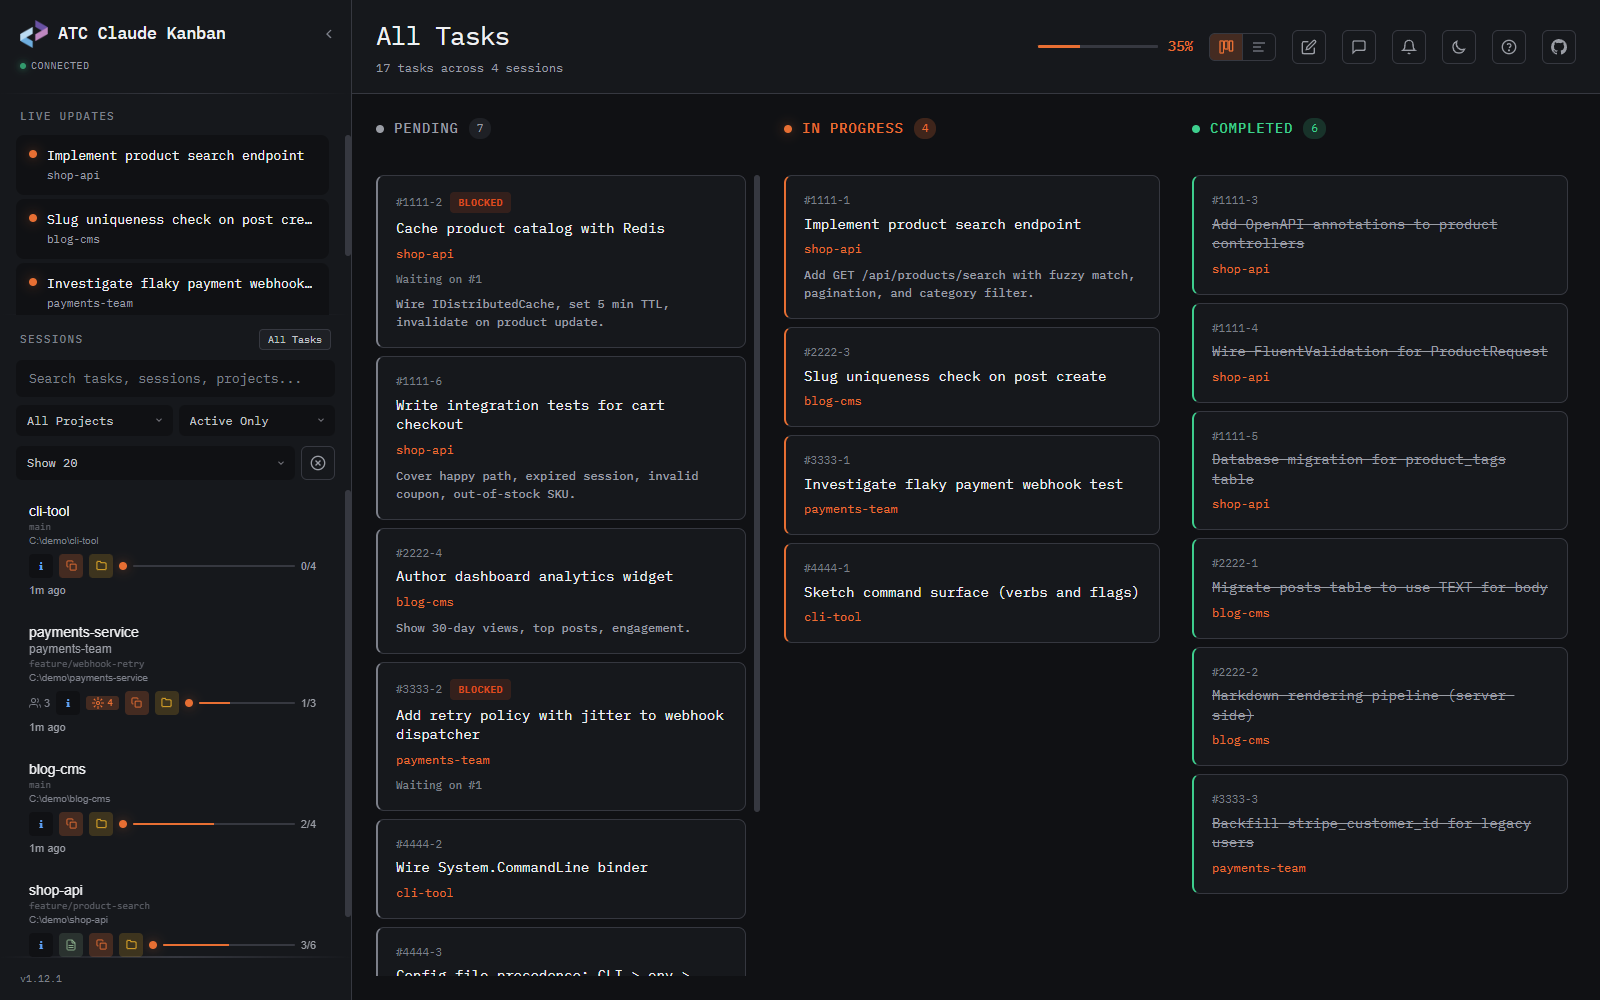
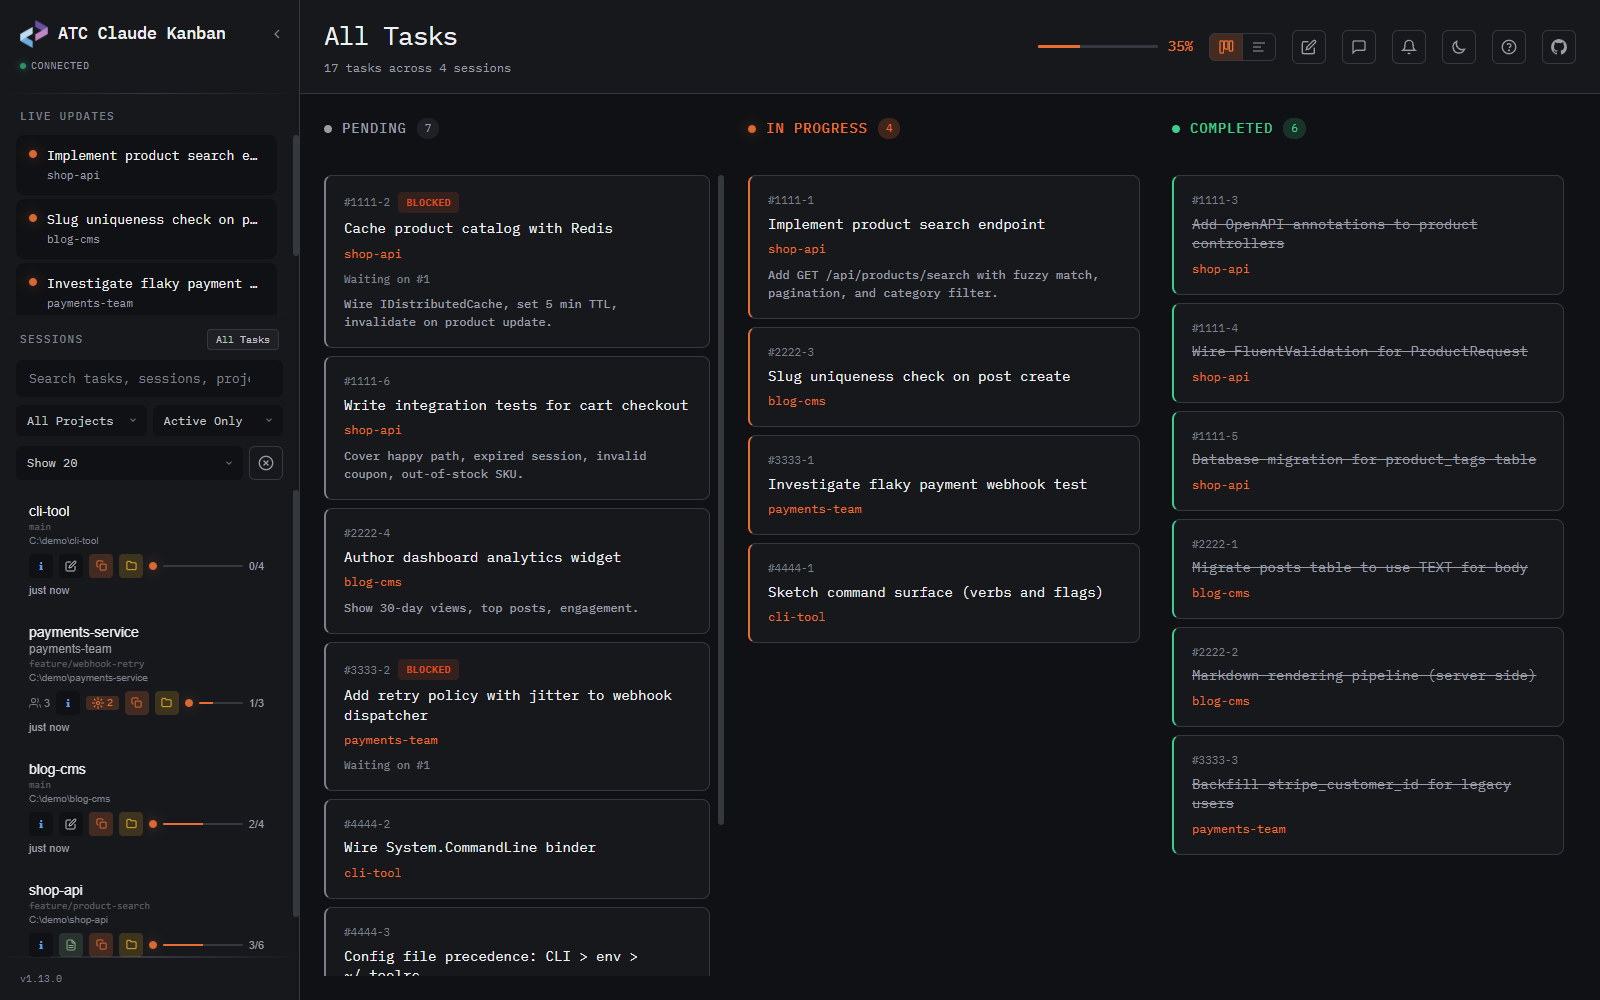
feat: show scratchpad badge in sidebar for sessions with notes

diff --git a/src/Atc.Claude.Kanban/wwwroot/index.html b/src/Atc.Claude.Kanban/wwwroot/index.html
@@ -1440,6 +1440,32 @@
       flex-shrink: 0;
     }
 
+    .scratchpad-badge {
+      width: 24px;
+      height: 24px;
+      display: inline-flex;
+      align-items: center;
+      justify-content: center;
+      background: var(--bg-deep);
+      border: 1px solid transparent;
+      border-radius: 4px;
+      color: var(--text-secondary);
+      cursor: pointer;
+      flex-shrink: 0;
+      transition: all 0.15s ease;
+    }
+
+    .scratchpad-badge:hover {
+      color: var(--accent);
+      border-color: var(--accent);
+    }
+
+    .scratchpad-badge svg {
+      width: 12px;
+      height: 12px;
+      flex-shrink: 0;
+    }
+
     .subagent-section {
       border-top: 1px solid var(--border);
       padding: 16px 20px;
@@ -3981,6 +4007,7 @@
               ${session.isCompleted ? `<span class="completed-badge" title="Completed (${session.peakTaskCount} tasks)">Done ${session.peakTaskCount}</span>` : ''}
               ${session.activeSubagentCount > 0 ? `<span class="subagent-badge" title="${session.activeSubagentCount} active subagent${session.activeSubagentCount !== 1 ? 's' : ''} (${session.subagentCount} total)"><svg width="12" height="12" viewBox="0 0 24 24" fill="none" stroke="currentColor" stroke-width="2"><circle cx="12" cy="12" r="3"/><path d="M12 1v4M12 19v4M4.22 4.22l2.83 2.83M16.95 16.95l2.83 2.83M1 12h4M19 12h4M4.22 19.78l2.83-2.83M16.95 7.05l2.83-2.83"/></svg>${session.activeSubagentCount}</span>` : ''}
               ${session.hasPlan ? `<span class="plan-indicator" data-action="openPlanForSession" data-session-id="${session.slug || session.id}" title="View plan"><svg width="12" height="12" viewBox="0 0 24 24" fill="none" stroke="currentColor" stroke-width="2" stroke-linecap="round" stroke-linejoin="round"><path d="M14 2H6a2 2 0 0 0-2 2v16a2 2 0 0 0 2 2h12a2 2 0 0 0 2-2V8z"/><polyline points="14 2 14 8 20 8"/><line x1="16" y1="13" x2="8" y2="13"/><line x1="16" y1="17" x2="8" y2="17"/></svg></span>` : ''}
+              ${sessionHasScratchpadNotes(session.id) ? `<span class="scratchpad-badge" data-action="openSessionScratchpad" data-session-id="${session.id}" title="Open scratchpad"><svg width="12" height="12" viewBox="0 0 24 24" fill="none" stroke="currentColor" stroke-width="2" stroke-linecap="round" stroke-linejoin="round"><path d="M11 4H4a2 2 0 0 0-2 2v14a2 2 0 0 0 2 2h14a2 2 0 0 0 2-2v-7"/><path d="M18.5 2.5a2.121 2.121 0 0 1 3 3L12 15l-4 1 1-4 9.5-9.5z"/></svg></span>` : ''}
               ${session.project ? `<span class="session-project-actions"><span class="session-project-btn" data-action="copyPath" data-path="${escapeHtml(session.project)}" title="Copy path"><svg width="11" height="11" viewBox="0 0 24 24" fill="none" stroke="currentColor" stroke-width="2" stroke-linecap="round" stroke-linejoin="round"><rect x="9" y="9" width="13" height="13" rx="2" ry="2"/><path d="M5 15H4a2 2 0 0 1-2-2V4a2 2 0 0 1 2-2h9a2 2 0 0 1 2 2v1"/></svg></span><span class="session-project-btn" data-action="openFolder" data-path="${escapeHtml(session.project)}" title="Open in explorer"><svg width="11" height="11" viewBox="0 0 24 24" fill="none" stroke="currentColor" stroke-width="2" stroke-linecap="round" stroke-linejoin="round"><path d="M22 19a2 2 0 0 1-2 2H4a2 2 0 0 1-2-2V5a2 2 0 0 1 2-2h5l2 3h9a2 2 0 0 1 2 2z"/></svg></span></span>` : ''}
               ${hasInProgress ? '<span class="pulse"></span>' : ''}
             </span>
@@ -5187,6 +5214,24 @@
 
     let scratchpadTimer = null;
 
+    function sessionScratchpadKey(sessionId) {
+      return `scratchpad-${sessionId}`;
+    }
+
+    function sessionHasScratchpadNotes(sessionId) {
+      try { return !!(localStorage.getItem(sessionScratchpadKey(sessionId)) || '').trim(); }
+      catch (_) { return false; }
+    }
+
+    function openSessionScratchpad(sessionId) {
+      const openIt = () => {
+        const overlay = document.getElementById('scratchpad-modal');
+        if (!overlay?.classList.contains('visible')) toggleScratchpad();
+      };
+      if (sessionId === currentSessionId) openIt();
+      else fetchTasks(sessionId).then(openIt);
+    }
+
     function toggleScratchpad() {
       const sid = currentSessionId;
       if (!sid) return;
@@ -5219,7 +5264,8 @@
       }
 
       const textarea = document.getElementById('scratchpad-text');
-      const saved = localStorage.getItem(`scratchpad-${sid}`);
+      const key = sessionScratchpadKey(sid);
+      const saved = localStorage.getItem(key);
       if (saved) textarea.value = saved;
       updateScratchpadCount();
 
@@ -5227,7 +5273,7 @@
         updateScratchpadCount();
         clearTimeout(scratchpadTimer);
         scratchpadTimer = setTimeout(() => {
-          localStorage.setItem(`scratchpad-${currentSessionId}`, textarea.value);
+          persistScratchpad(currentSessionId, textarea.value);
         }, 500);
       };
 
@@ -5240,10 +5286,19 @@
       if (!overlay) return;
       const textarea = document.getElementById('scratchpad-text');
       if (textarea && currentSessionId) {
-        localStorage.setItem(`scratchpad-${currentSessionId}`, textarea.value);
+        persistScratchpad(currentSessionId, textarea.value);
       }
       clearTimeout(scratchpadTimer);
       overlay.classList.remove('visible');
+    }
+
+    function persistScratchpad(sessionId, value) {
+      const key = sessionScratchpadKey(sessionId);
+      const had = !!(localStorage.getItem(key) || '').trim();
+      const has = !!(value || '').trim();
+      if (has) localStorage.setItem(key, value);
+      else localStorage.removeItem(key);
+      if (had !== has) renderSessions();
     }
 
     function updateScratchpadCount() {
@@ -6846,6 +6901,7 @@
         case 'toggleMessagePanel': toggleMessagePanel(); break;
         case 'toggleScratchpad': toggleScratchpad(); break;
         case 'closeScratchpad': closeScratchpad(); break;
+        case 'openSessionScratchpad': e.stopPropagation(); openSessionScratchpad(sessionId); break;
         case 'openInEditor': {
           e.preventDefault();
           const path = actionEl.dataset.path;

diff --git a/README.md b/README.md
@@ -26,7 +26,7 @@ Real-time Kanban dashboard for monitoring [Claude Code](https://docs.anthropic.c
 - 🎯 **Activity status** — thinking/waiting/idle/error indicators per session, derived from JSONL
 - 💰 **Token & cost tracking** — accumulated token usage and model-aware cost per session
 - 🖱️ **Drag-drop** — reorder tasks between kanban columns by dragging
-- 📓 **Scratchpad** — per-session quick notes with localStorage persistence
+- 📓 **Scratchpad** — per-session quick notes with localStorage persistence and a sidebar badge for sessions with notes
 - 🔧 **Open in editor** — click file paths in the message log to open in VS Code
 - ⌨️ **Keyboard navigation** — vim-style (hjkl) + arrow keys, sidebar/board focus toggling
 - 🌙 **Dark/light themes** — system preference detection